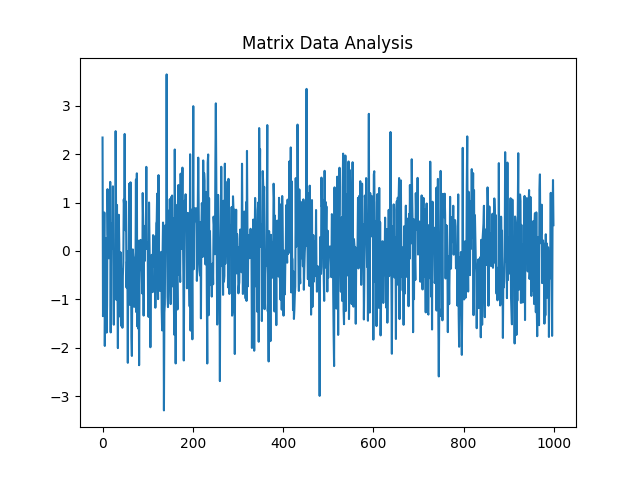
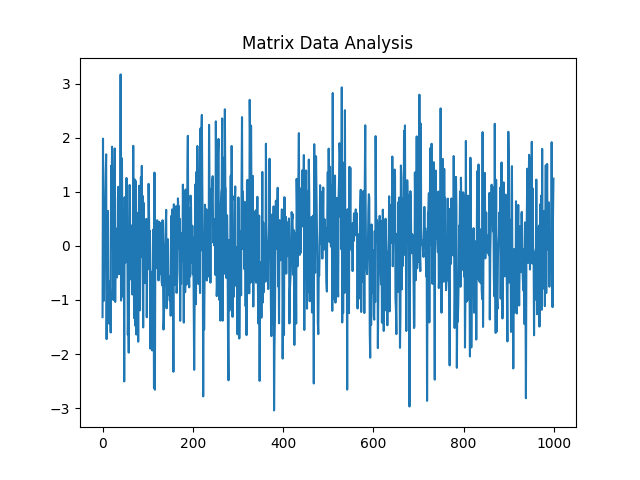
diff needed

diff --git a/ex1/loading.py b/ex1/loading.py
@@ -59,20 +59,23 @@ def check_dependencies(
 
 
 def generate_matrix_data(n: int, numpy_module: object) -> object:
-    print(f"\nProcessing {n} data points")
+    print(f"\nAnalyzing Matrix data...")
     generator = numpy_module.random.default_rng()  # type: ignore[attr-defined]
     data = generator.normal(size=n)
     return data
 
 
 def build_dataframe(data: object, pandas_module: object) -> object:
+    print(f"Processing {len(data)} data points...")
     data_frame = pandas_module.DataFrame({"signal": data})  # type: ignore[attr-defined]
     data_frame["rolling_mean"] = data_frame["signal"].rolling(window=10).mean()
     return data_frame
 
 
 def generate_visualization(data_frame: object, matplotlib_module: object) -> str:
-    plt = importlib.import_module("matplotlib.pyplot")  # type: ignore[attr-defined]
+    print("Generating visualization...")
+    importlib.import_module("matplotlib.pyplot")
+    plt = matplotlib_module.pyplot  # type: ignore[attr-defined]
     fig, ax = plt.subplots()
     ax.plot(data_frame["signal"])
     ax.set_title("Matrix Data Analysis")
@@ -98,9 +101,10 @@ def main() -> None:
     n = 1000
     data = generate_matrix_data(n, all_deps["numpy"].module)
     data_frame = build_dataframe(data, all_deps["pandas"].module)
-    print(data_frame)
-    visualization = generate_visualization(data_frame, all_deps["matplotlib"].module)
-    print(visualization)
+    output_file = generate_visualization(data_frame, all_deps["matplotlib"].module)
+    print("\nAnalysis complete!")
+    print(f"Result saved to: {output_file}")
+
 
 if __name__ == "__main__":
     main()